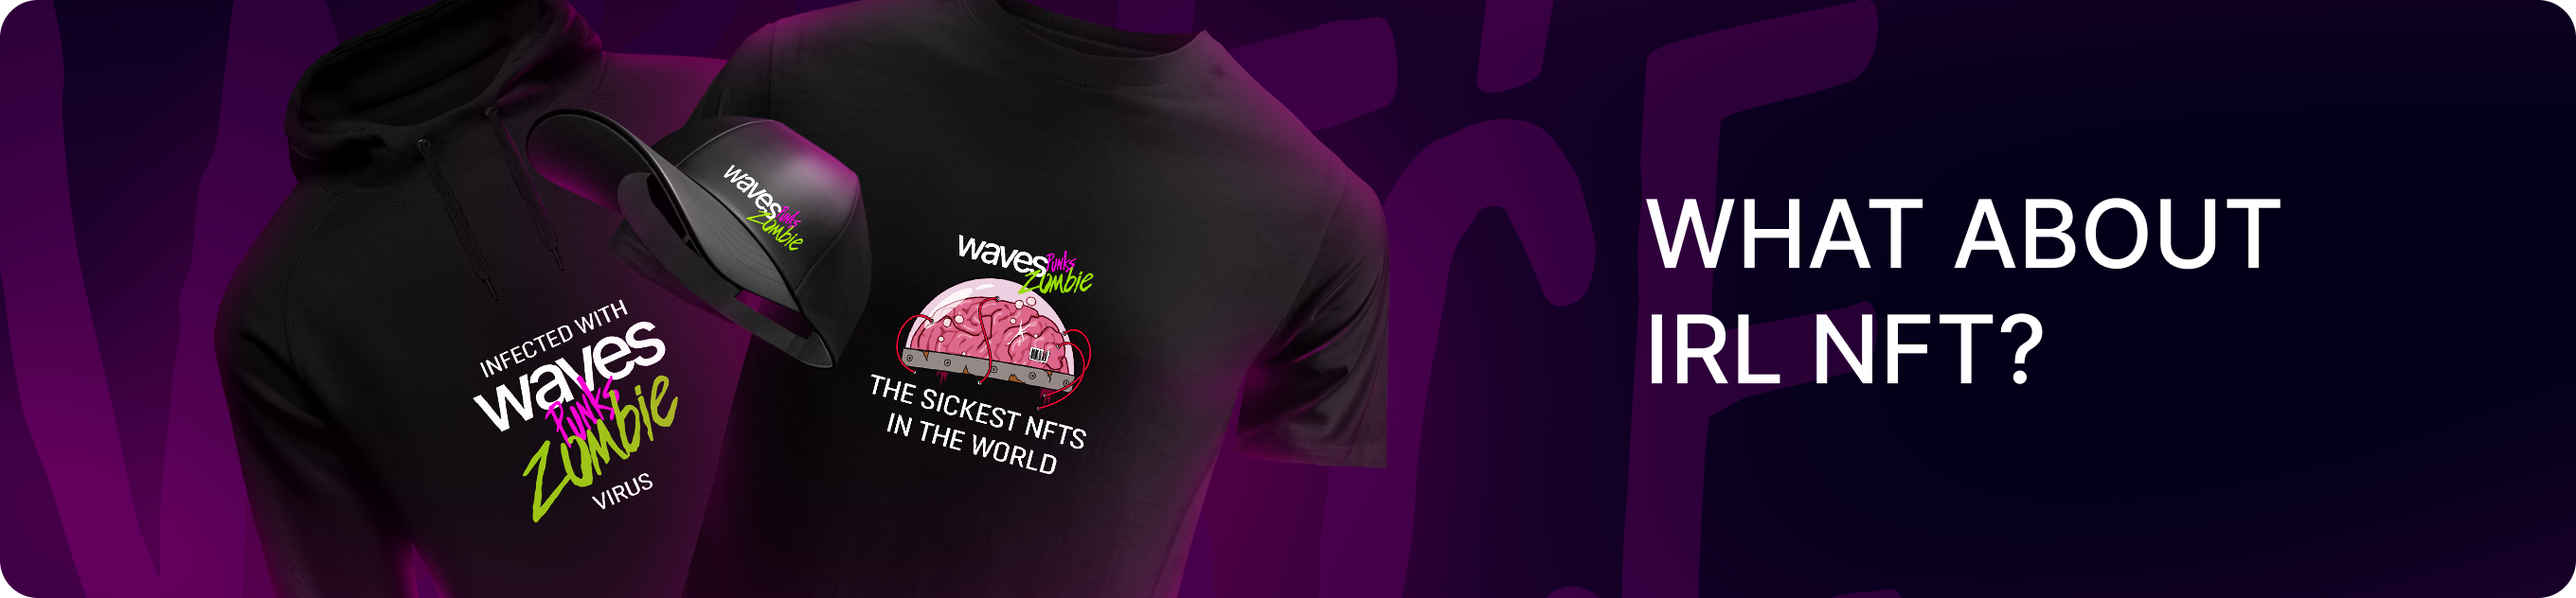
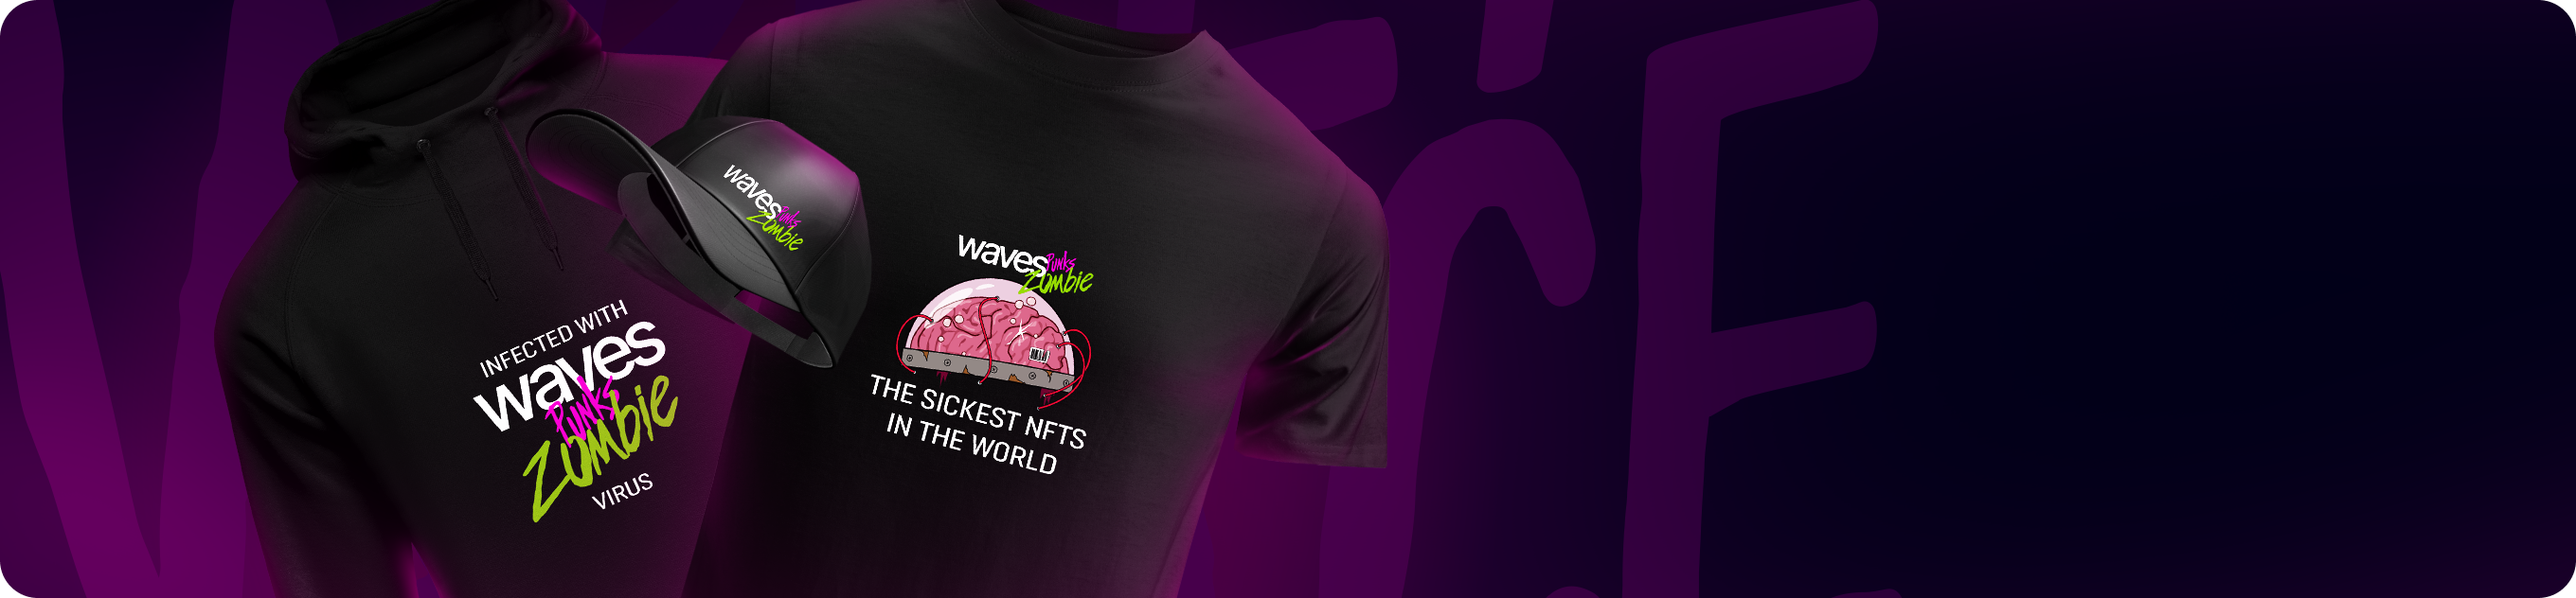
Update merch block

Changed region(s): [[0.625, 0.3307, 0.9062, 0.4509], [0.625, 0.5111, 0.8125, 0.6614]]

diff --git a/src/pages/Home.vue b/src/pages/Home.vue
@@ -50,7 +50,7 @@
         </div>
 
         <div class="merch">
-            <img src="/img/merch.png" />
+            WHAT ABOUT<br>IRL NFT?
         </div>
     </div>
 </template>
@@ -96,6 +96,18 @@ export default {
 
     .highlights__block {
         width: 228px !important;
+    }
+
+    .collections__block {
+        display: flex !important;
+        justify-content: center;
+        min-width: 230px;
+        overflow: hidden;
+    }
+
+    .merch {
+        font-size: 38px !important;
+        text-align: center !important;
     }
 }
 
@@ -261,10 +273,17 @@ export default {
 }
 
 .merch {
+    height: 196px;
     margin-top: 100px;
-}
-
-.merch > img {
-    width: 100%;
+    padding: 60px;
+    border-radius: 20px;
+    font-weight: 500;
+    font-size: 50px;
+    line-height: 61px;
+    color: #FFFFFF;
+    background-image: url('/img/merch.png');
+    background-size: cover;
+    background-position: center;
+    text-align: right;
 }
 </style>
